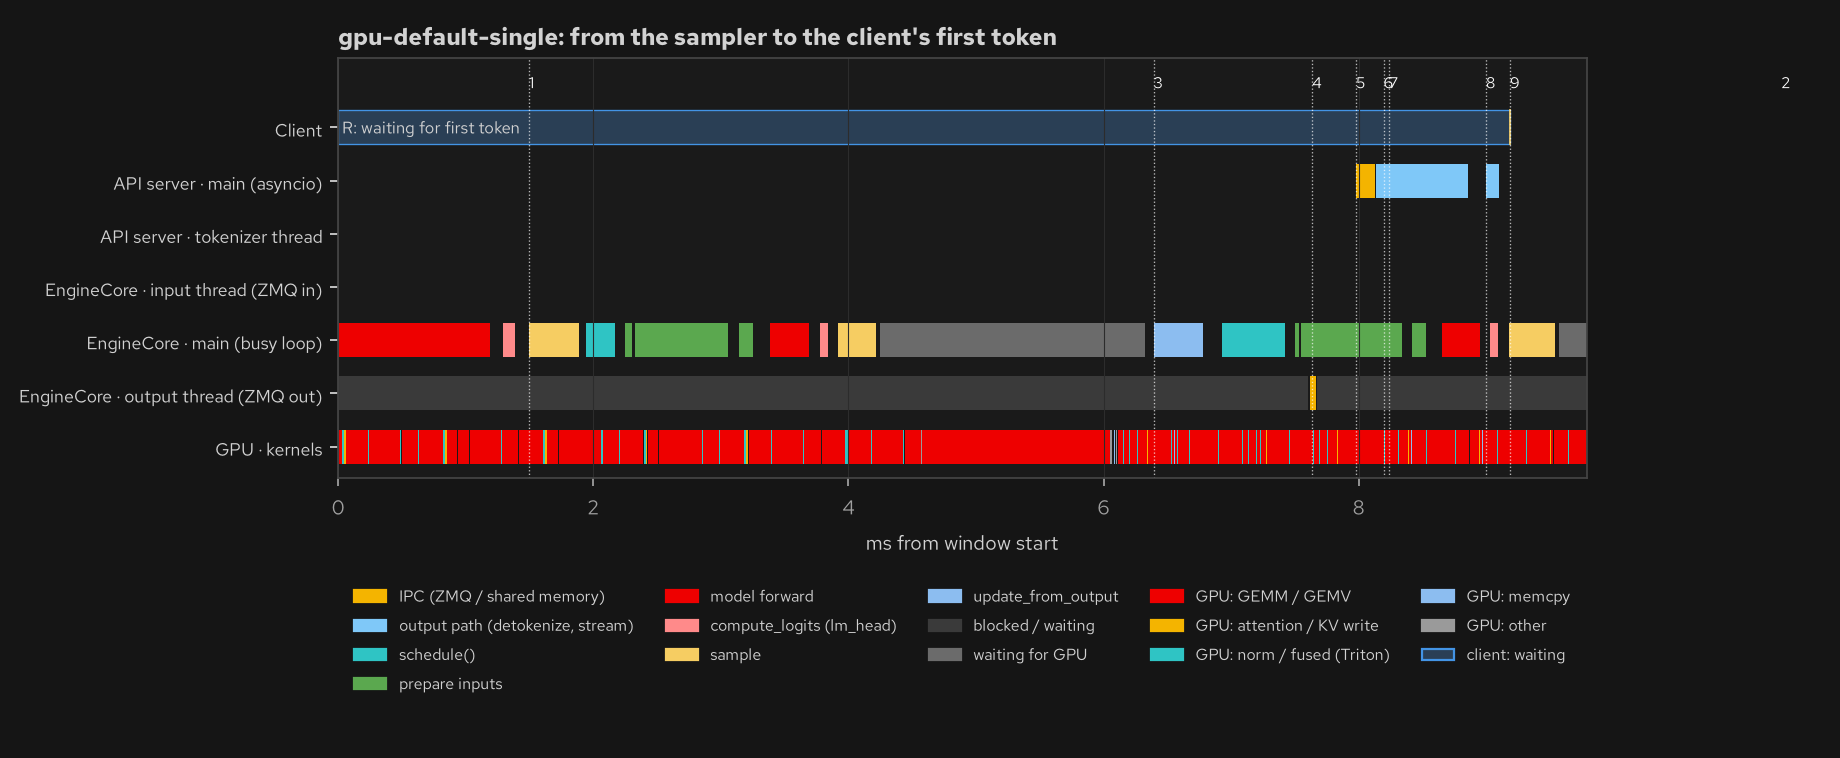
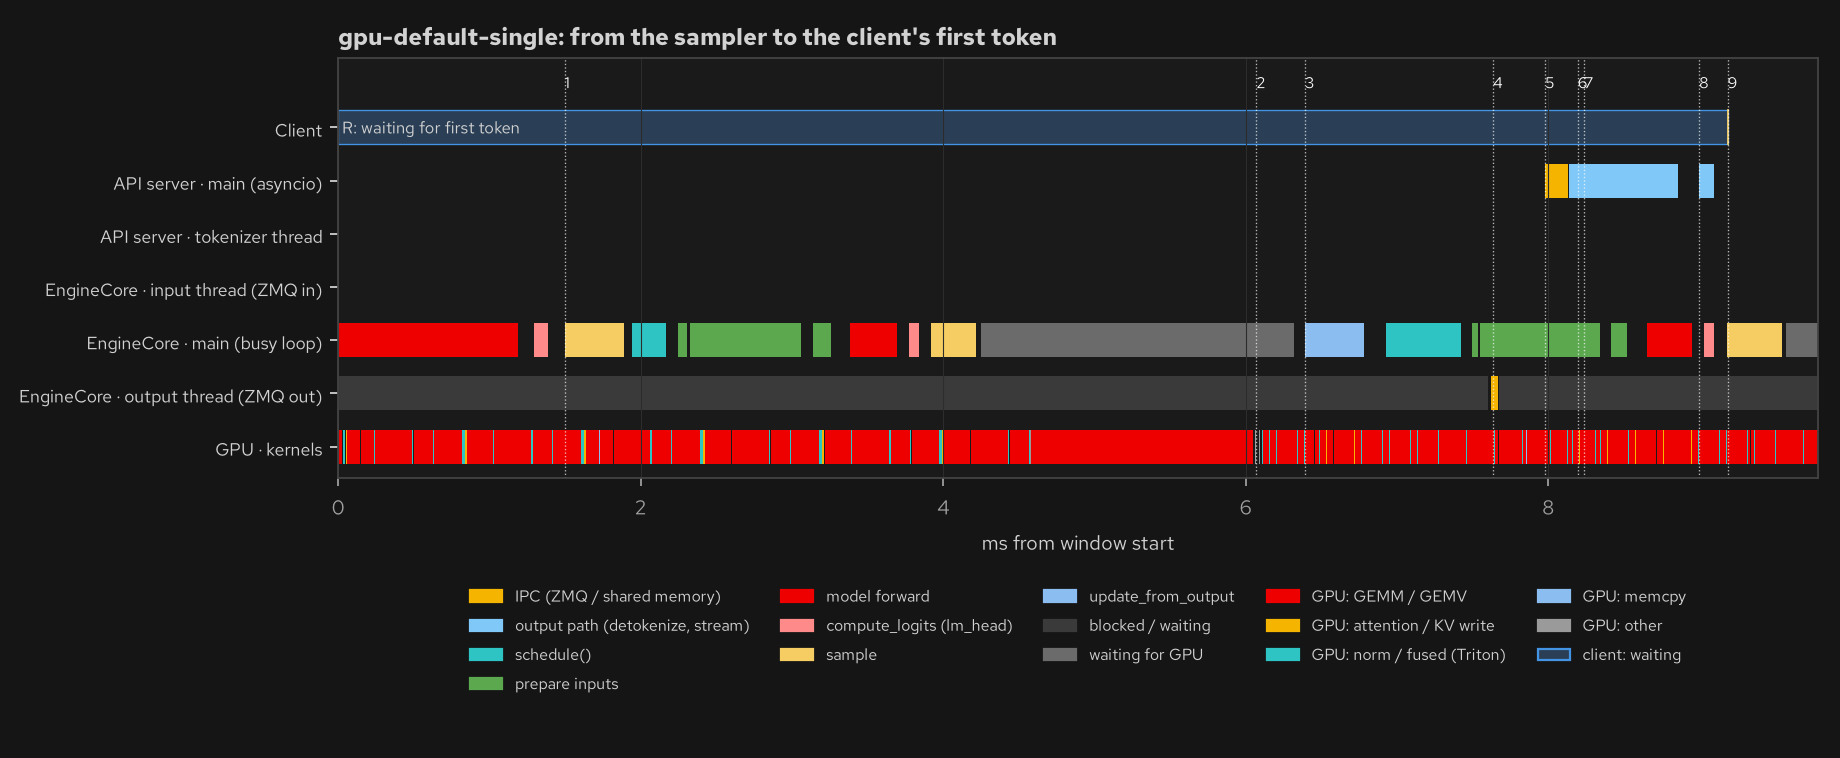
journey: align the sampled engine core, fix GPU milestones, add step costs
- py-spy frames use qualified names and the current line; normalise them and
  align on the end of each engine-core wait (= the worker's reply)
- paint lanes with a sweep instead of quadratic interval overwrite
- bound 'last kernel of the step' by the end of sample_tokens, because with
  async scheduling the next step's launches follow immediately
- scheduler chart gains a step-duration panel

diff --git a/analysis/journey.py b/analysis/journey.py
@@ -430,10 +430,12 @@ def milestones(run: Run, name: str = "R") -> list[dict]:
         smp = _first(model, r"gpu_model_runner\.py\(\d+\): sample_tokens", s["ts"])
         add("sample", "sample_tokens: sampler picks the token", "model runner", smp)
         if gpu and smp:
-            # kernels launched by this step's host ops: last one to finish
+            # Kernels launched by this step (forward, logits, sampler): last one to
+            # finish. Bounded by the end of sample_tokens, because with async
+            # scheduling the next step's launches follow immediately.
+            smp_end = _first(model, r"gpu_model_runner\.py\(\d+\): sample_tokens", s["ts"], end=True)
             lnch = run.proc("gpu").launchers
-            ks = [e for e in gpu if (lnch.get(e["args"].get("correlation")) or {}).get("ts", 0) >= s["ts"]
-                  and (lnch.get(e["args"].get("correlation")) or {}).get("ts", 0) <= smp + 2000]
+            ks = [e for e in gpu if s["ts"] <= (lnch.get(e["args"].get("correlation")) or {}).get("ts", -1) <= smp_end]
             if ks:
                 add("gpu_last", "last GPU kernel of the step finishes", "GPU", max(e["ts"] + e["dur"] for e in ks))
         wret = None
@@ -671,7 +673,7 @@ def draw_steps(run: Run, out: str, title: str) -> None:
     ax.grid(axis="y", lw=0.5)
     # how long each step took on the host (the annotation span)
     durs = [r["dur_ms"] for r in rows]
-    ax2.bar([r["i"] for r in rows], durs, color=["#EE0000" if r["ctx_tokens"] else "#8a8a8a" for r in rows], width=0.8)
+    ax2.bar([r["i"] for r in rows], durs, color=["#c9a3ff" if r["ctx_tokens"] else "#8a8a8a" for r in rows], width=0.8)
     for r in rows:
         if r["ctx_tokens"] or r["i"] % 4 == 1:
             ax2.text(r["i"], r["dur_ms"], f"{r['dur_ms']:.0f}" if r["dur_ms"] >= 10 else f"{r['dur_ms']:.1f}",

diff --git a/analysis/journey_figures.py b/analysis/journey_figures.py
@@ -106,8 +106,8 @@ def main() -> int:
 
     # 4. the scheduler's decisions in the staggered scenario
     for tag, title in [
-        ("cpu-eager-staggered", "CPU: what the scheduler put in each step (4 requests arriving while others decode)"),
-        ("gpu-eager-staggered", "GPU: the same requests, the same scheduler"),
+        ("cpu-eager-staggered", "CPU: what the scheduler put in each step, and what each step cost"),
+        ("gpu-eager-staggered", "GPU (eager): the same requests, the same scheduler decisions, and what each step cost"),
     ]:
         run = J.load_run(tag)
         J.draw_steps(run, os.path.join(OUT, f"j5-steps-{tag}.png"), title)
